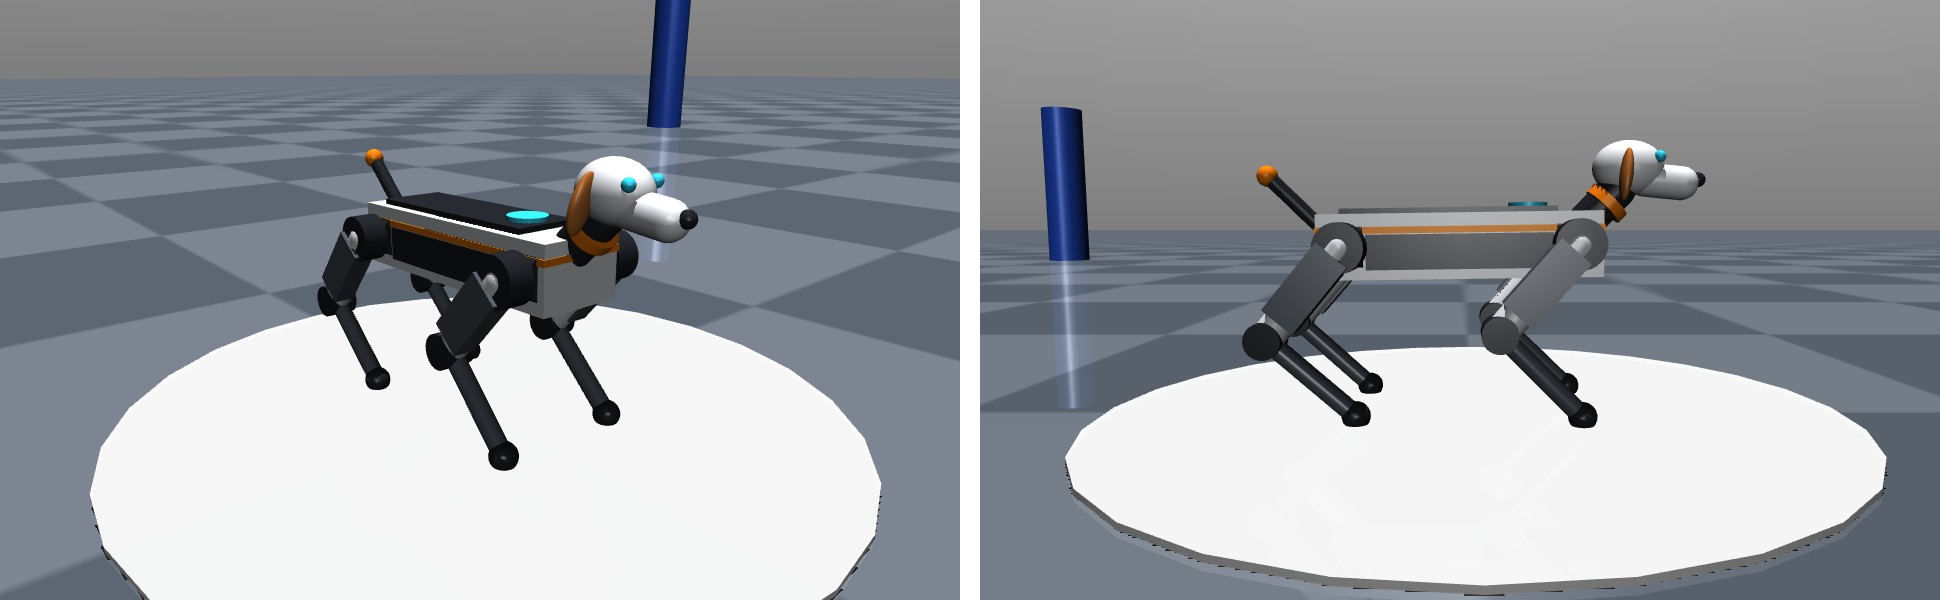
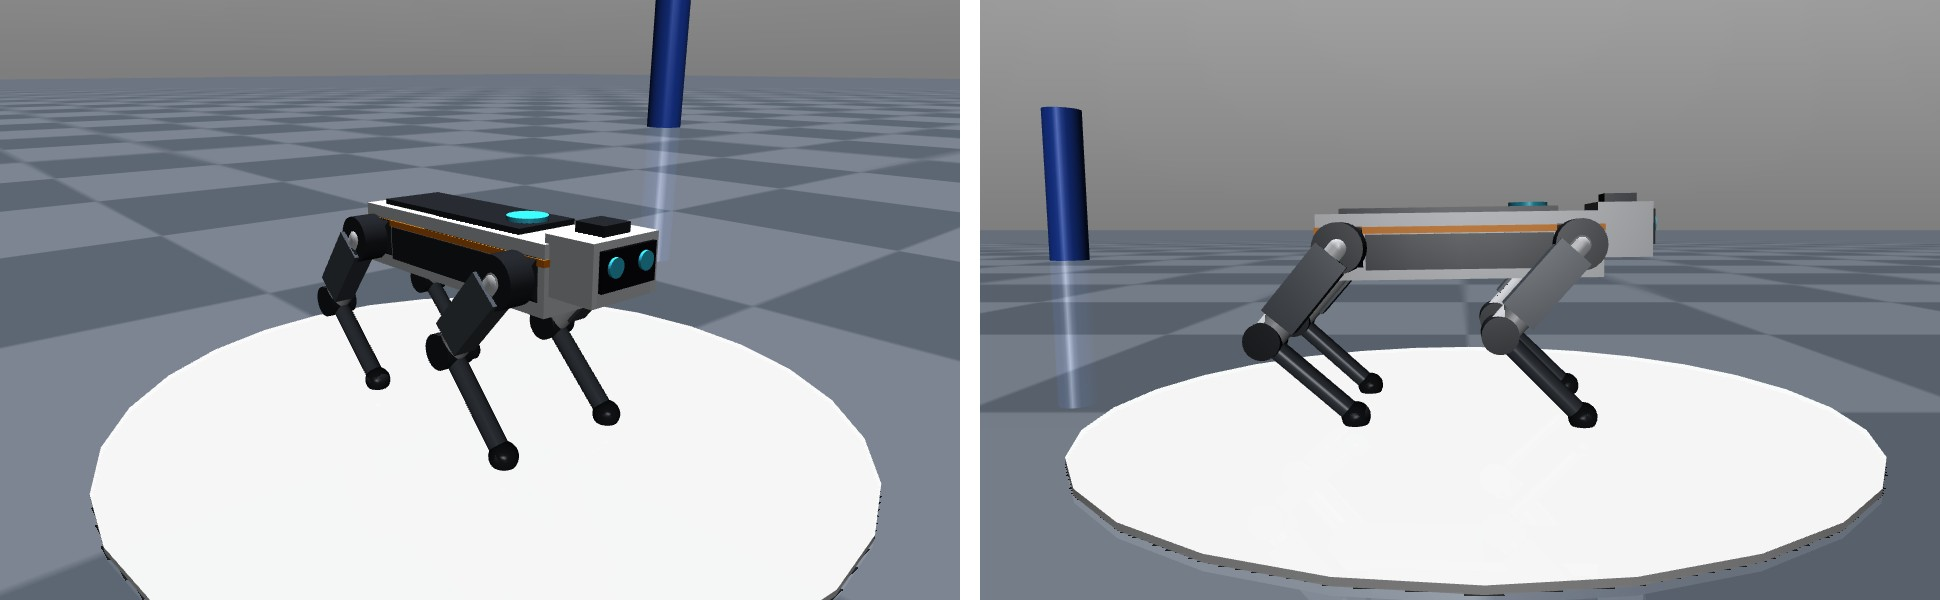
Mechanical front sensor unit instead of cartoon dog head (physics unchanged)

diff --git a/report/report.html b/report/report.html
@@ -53,7 +53,7 @@
 <p><b>(1) 犬型ロボット（自作）</b>　実在の四足ロボット（Spot、ANYmal、Unitree Go2 など）と同じく、胴体の下に脚が伸び膝が後ろに曲がる構成にした。</p>
 <figure><img src="robot.jpg" style="max-width:96%"><figcaption>自作の犬型ロボット（左：斜め前から、右：真横から）</figcaption></figure>
 <table>
-  <tr><th style="width:18%">体</th><td>胴体（箱形、6 kg）と頭、脚 4 本（太もも・すね各 0.21 m）。各脚は外転・股・膝の 3 関節で計 12 関節、全体で 12.5 kg、立った胴体の高さ約 0.33 m。耳・鼻・しっぽ・外装は見た目だけの部品（質量 0・接触なし）で、物理には影響しない</td></tr>
+  <tr><th style="width:18%">体</th><td>胴体（箱形、6 kg）と前部のセンサーユニット、脚 4 本（太もも・すね各 0.21 m）。各脚は外転・股・膝の 3 関節で計 12 関節、全体で 12.5 kg、立った胴体の高さ約 0.33 m。センサーユニットや外装の形は見た目だけの部品（質量 0・接触なし）で、物理には影響しない</td></tr>
   <tr><th>制御</th><td>関節は位置制御（PD、比例ゲイン 60、最大トルク 30 N·m）。方策の出力は「立ち姿勢からの関節角のずれ」（±0.4 rad）で、50 Hz で更新</td></tr>
   <tr><th>観測（53次元）</th><td>胴体の高さ・重力の向き・速度・角速度（胴体座標系）、12 関節の角度と速度、直前の行動、ゴールの方向（胴体座標系 2 / 世界座標系 2）と距離（5 m で頭打ち）、歩行クロックの位相（sin・cos）</td></tr>
   <tr><th>報酬</th><td>四足ロボットの強化学習で標準的な項目で構成した。<br>
@@ -97,12 +97,12 @@
 <ul>
   <li><b>言葉と身体の役割分担</b>：LLM には経由地の列を出させるだけにして、関節の動かし方には関わらせない。歩行方策は「ゴールまで歩く」ことだけを学ぶので、新しい指示や地点の組み合わせにも学習し直さずに対応できる。</li>
   <li><b>犬らしい歩き方の報酬設計</b>：ゴールへ近づく速さをそのまま報酬にすると、速さを稼ぐために脚を広げて小刻みに走る不自然な動きになりやすい。そこで脚ロボットの強化学習で標準的な構成（目標速度への追従、姿勢・高さ・なめらかさの減点）に、対角の脚を交互に接地させる歩行クロックを加え、トロット歩行を得た。歩き方は速さ・接地時間・対角の脚のそろい方・横方向の速さの指標で確かめた。</li>
-  <li><b>ロボットの自作と位置制御</b>：実在の四足ロボットに近い犬型を作り、位置制御と「立ち姿勢からのずれ」を出力とする設計で、学習の初めから立った状態を保てるようにした。頭・耳・しっぽなどの見た目の部品は質量 0・接触なしにして、物理に影響させずに外観を整えた。</li>
-  <li><b>ゴールを胴体から見た向きで与える</b>：ゴール方向を胴体座標系に変換して観測に加え、「ゴールの方を向いている」ことにも報酬を与えた。これで頭を進行方向に向けて歩く。</li>
+  <li><b>ロボットの自作と位置制御</b>：実在の四足ロボットに近い犬型を作り、位置制御と「立ち姿勢からのずれ」を出力とする設計で、学習の初めから立った状態を保てるようにした。外装は見た目だけの部品（質量 0・接触なし）にして、物理に影響させずに外観を整えた。</li>
+  <li><b>ゴールを胴体から見た向きで与える</b>：ゴール方向を胴体座標系に変換して観測に加え、「ゴールの方を向いている」ことにも報酬を与えた。これで胴体の前を進行方向に向けて歩く。</li>
   <li><b>到着したらゴールを出し直す</b>：1 エピソードに何度もゴールを出すため、「止まる・曲がる・また歩く」を集中的に経験できる。学習中は 5 m 以内のゴールしか出さなかったが、10 m を超える区間でも到達できた。</li>
   <li><b>LLM 出力の型を制限</b>：JSON Schema の列挙型で、存在しない地点や不正な形式が実行系に渡らないようにした。</li>
   <li><b>評価に基づくモデル選択</b>：最終チェックポイントをそのまま使わず、100 回の到達試験と経路ごとの 20 回試験で比べて採用モデルを決めた。</li>
-  <li><b>見せ方</b>：カメラはロボットの向きに合わせて斜め前に回り込み、顔と脚の運びが見えるようにした。柱がロボットの手前に入ったら半透明にして隠れないようにした。</li>
+  <li><b>見せ方</b>：カメラはロボットの向きに合わせて斜め前に回り込み、進む向きと脚の運びが見えるようにした。柱がロボットの手前に入ったら半透明にして隠れないようにした。</li>
 </ul>
 
 <h2>6. 課題と考察</h2>

diff --git a/goal_dog.py b/goal_dog.py
@@ -2,7 +2,7 @@
 犬型 4 脚ロボットの目標到達環境（GoalDog）
 
 GoalAnt（Ant ベース）と同じゴール・ランドマークの考え方で、体と歩き方を犬型にしたもの。
-- 体：胴体の下に脚が伸びる犬型（各脚 3 関節：外転・股・膝、計 12 関節）。頭・耳・しっぽは見た目だけ（質量 0・接触なし）
+- 体：胴体の下に脚が伸びる犬型（各脚 3 関節：外転・股・膝、計 12 関節）。前部のセンサーユニットなどの外装は見た目だけ（質量 0・接触なし）
 - 制御：関節は位置制御（PD）。行動は「立ち姿勢からの関節角のずれ」
 - 歩き方：四足ロボットの強化学習で標準的な報酬の組み方（速度追従・姿勢・なめらかさ）に、
   対角の脚を揃えて出すトロットのリズム（歩行クロック）を加え、犬らしい歩き方にする
@@ -28,7 +28,6 @@ DIAGONAL = np.array([0, 1, 1, 0])  # FL・HR が組 0、FR・HL が組 1
 
 WHITE, ORANGE, METAL, DARK = "0.94 0.95 0.97 1", "1 0.5 0.05 1", "0.32 0.35 0.39 1", "0.13 0.14 0.16 1"
 LED = "0.2 0.85 1 1"
-BROWN = "0.72 0.42 0.18 1"
 
 
 def leg_xml(name, x, y):
@@ -53,23 +52,17 @@ def leg_xml(name, x, y):
 
 
 def head_xml():
-    """頭・耳・しっぽ（見た目だけ。接触判定用の head は透明にし、形は質量 0・接触なしの部品で作る）。"""
-    ears = "".join(
-        f'<geom type="ellipsoid" size="0.012 0.022 0.05" pos="0.305 {s * 0.056} 0.125" euler="{s * 0.25} 0.15 0" class="deco" material="shell" rgba="{BROWN}"/>'
+    """前部のセンサーユニット（見た目だけ。接触判定用の head は透明にし、形は質量 0・接触なしの部品で作る）。"""
+    lenses = "".join(
+        f'<geom type="cylinder" size="0.016 0.004" pos="0.358 {s * 0.035} 0.035" euler="0 1.5708 0" class="deco" rgba="{LED}"/>'
         for s in (1, -1)
     )
-    eyes = "".join(f'<geom type="sphere" size="0.011" pos="0.372 {s * 0.032} 0.158" class="deco" rgba="{LED}"/>' for s in (1, -1))
     return f"""
-      <geom type="capsule" fromto="0.24 0 0.04 0.3 0 0.1" size="0.035" class="deco" material="metal" rgba="{DARK}"/>
-      <geom type="cylinder" fromto="0.272 0 0.067 0.287 0 0.082" size="0.042" class="deco" material="shell" rgba="{ORANGE}"/>
       <geom name="head" type="ellipsoid" size="0.08 0.062 0.058" pos="0.33 0 0.13" mass="0.5" rgba="0 0 0 0"/>
-      <geom type="ellipsoid" size="0.068 0.052 0.052" pos="0.32 0 0.14" class="deco" material="shell" rgba="{WHITE}"/>
-      <geom type="capsule" fromto="0.35 0 0.118 0.42 0 0.11" size="0.032" class="deco" material="shell" rgba="{WHITE}"/>
-      <geom type="sphere" size="0.014" pos="0.452 0 0.116" class="deco" material="metal" rgba="{DARK}"/>
-      {eyes}
-      {ears}
-      <geom type="capsule" fromto="-0.27 0 0.04 -0.36 0 0.13" size="0.014" class="deco" material="metal" rgba="{DARK}"/>
-      <geom type="sphere" size="0.02" pos="-0.365 0 0.135" class="deco" material="shell" rgba="{ORANGE}"/>"""
+      <geom type="box" size="0.05 0.075 0.05" pos="0.3 0 0.025" class="deco" material="shell" rgba="{WHITE}"/>
+      <geom type="box" size="0.006 0.062 0.032" pos="0.351 0 0.03" class="deco" material="metal" rgba="0.05 0.05 0.07 1"/>
+      {lenses}
+      <geom type="box" size="0.03 0.03 0.012" pos="0.3 0 0.08" class="deco" material="metal" rgba="{DARK}"/>"""
 
 
 def build_xml():
